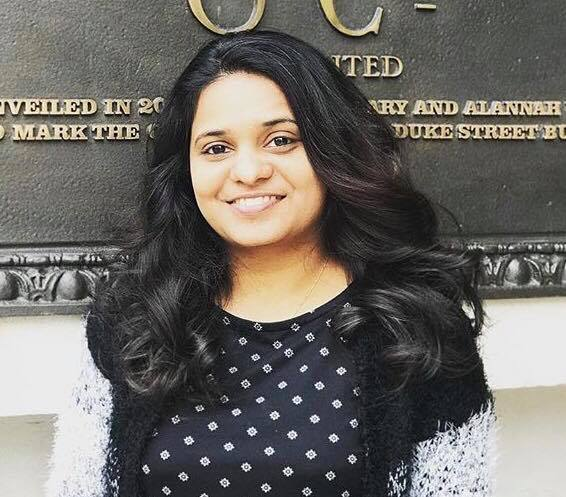
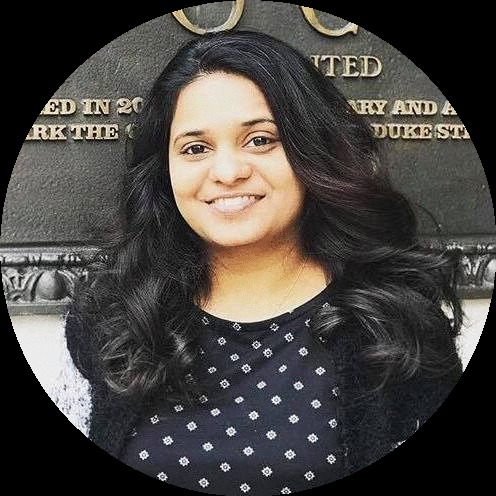
adding testimonial pics
adding testimonial pics

diff --git a/src/components/testimonials.js b/src/components/testimonials.js
@@ -83,7 +83,7 @@ export class testimonials extends Component {
                   <div class="testimonial">
                    
                     <div class="avatar mx-auto">
-                      <img src={images1['sana1.png']} class="img-circle z-depth-3"/>
+                      <img src={images1['T1.png']} class="img-circle z-depth-3"/>
                     
                     </div>
                    
